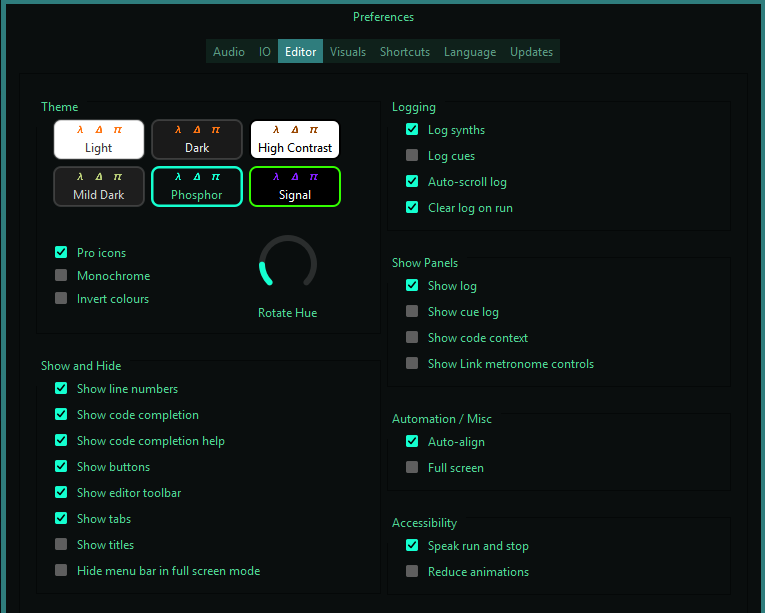
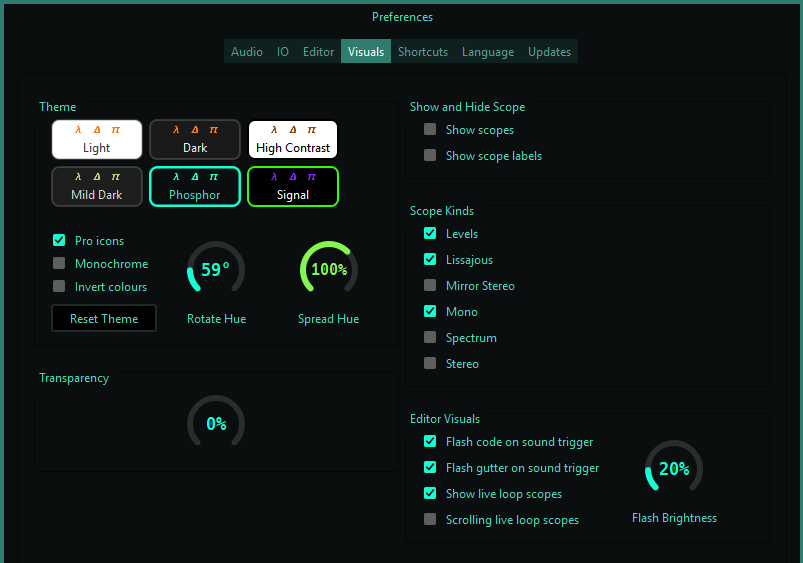
feat(blog): update sonic-pi-v5-release misc-note + table of contents

diff --git a/src/content/blog/misc-notes/sp5-release/sonicpi-v5-release.md b/src/content/blog/misc-notes/sp5-release/sonicpi-v5-release.md
@@ -61,7 +61,9 @@ We finally have theme customization, including **hue** changes, **transparency**
 | Phosphor      | A green-on-black CRT colour scheme                 |
 | Signal        | High-contrast blue-and-gold colour scheme          |
 
-I selected **Phosphor** for the images below. Can you guess the hue adjustment value I used? However, I think I’ll be working with **Mild Dark** on a daily basis, as it feels really comfortable and easy on the eyes.
+I selected **Phosphor** for the images below. However, I think I’ll be working with **Mild Dark** on a daily basis, as it feels really comfortable and easy on the eyes.
+
+In RC-4, it also displays the color percentage values and introduces a **new Spread Hue** option. Why $59$? Well, if you double-click the value, you can enter an exact number using your keyboard.
 
 For those who enjoy the conveniences of modern code editors, it now includes a toolbar with **Cut**, **Copy**, **Paste**, and, most importantly, **Search**.
 
@@ -87,12 +89,17 @@ Likewise, the visual representation of the `cutoff` through bars (visible in the
 
 I noticed the new **dynamic event visualization** features added to the editor. Now, every triggered sound event can generate visual feedback through three customizable options, each with adjustable brightness:
 
-- Flash code on sound trigger:
+- Flash code on sound trigger
 - Flash gutter on sound trigger
 - Show live loop scopes
 - Scrolling live loop scopes
 
 Most interesting is the small oscilloscope and spectrum display (bar-style visualization) attached directly to the code line.
+I’ll probably leave the last option disabled and use the flash brightness set to **20%**, as shown in the screenshot above.
+
+### Skope Kinds
+
+RC-4 brings together all the classic visualization modes: `Mono`, `Spectrum`, `Stereo`, `Mirror Stereo`, and `Lissajous` (see below), while introducing the new `Levels` mode.
 
 ### Audio and Recording
 
